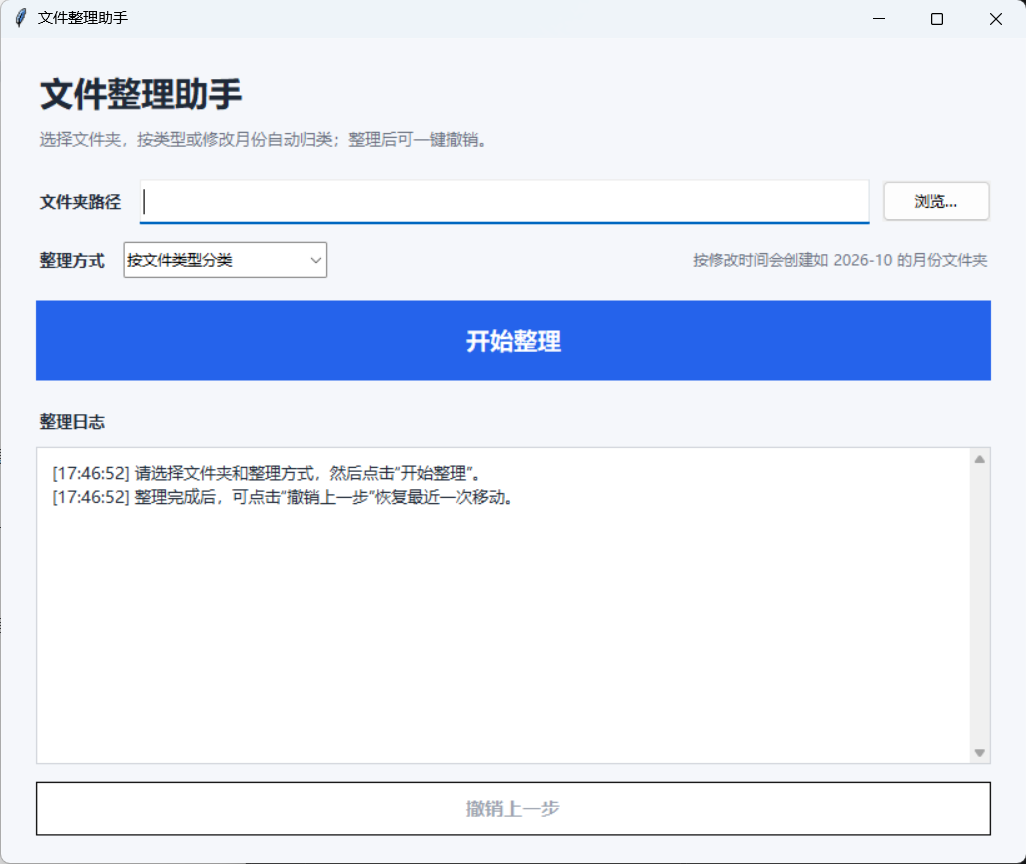
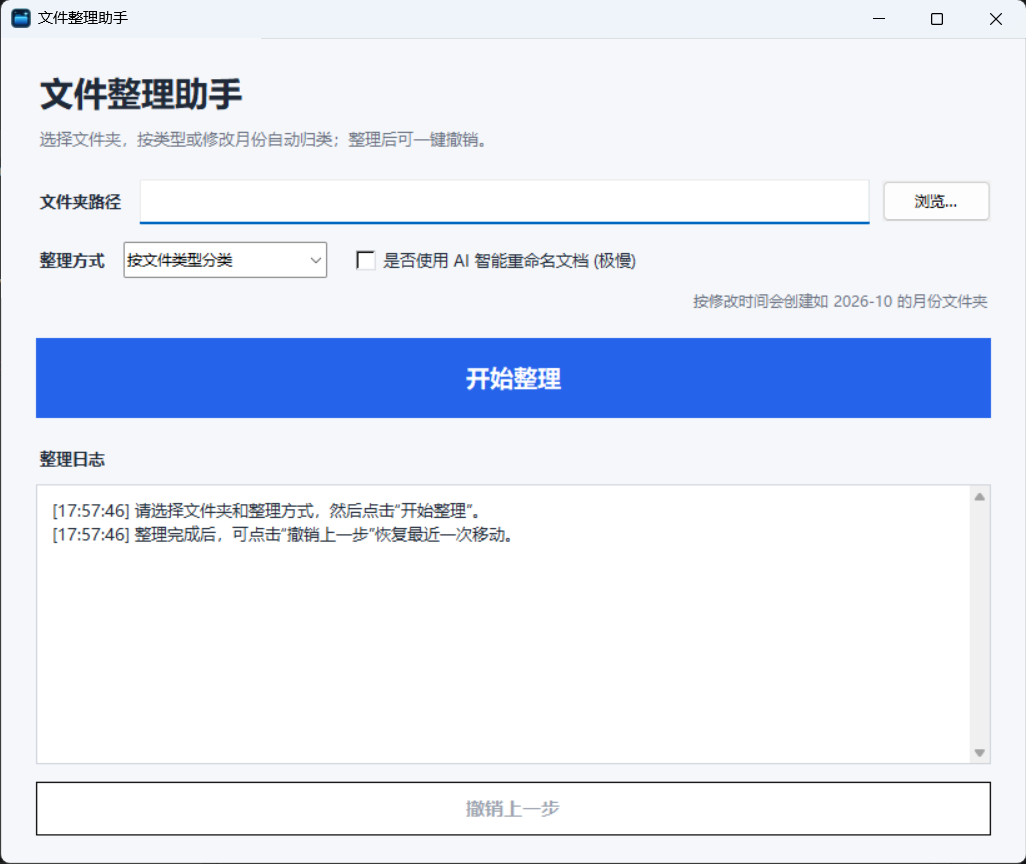
简介更新

diff --git a/README.md b/README.md
@@ -4,7 +4,9 @@
 
 **把混乱变成秩序，只需一次点击。**
 
-一款基于 Python + Tkinter 的本地文件整理工具：按类型归档、按修改月份归档，并为每一次整理保留一条安全的“后悔路”。
+一款基于 Python + Tkinter 的本地文件整理工具：支持 AI 智能重命名、按类型归档、按修改月份归档，并为每一次整理保留一条安全的“后悔路”。
+
+启用 AI 智能重命名后，程序会调用 DeepSeek 为 `.txt` 和 `.md` 文档生成简短摘要，并将摘要加入文件名；如果 AI 请求失败，会明确记录原因并自动回退到普通整理流程。
 
 ![Python](https://img.shields.io/badge/Python-3.10%2B-3776AB?logo=python&logoColor=white)
 ![Tkinter](https://img.shields.io/badge/GUI-Tkinter-3776AB?logo=python&logoColor=white)
@@ -21,11 +23,8 @@
 
 ## 界面预览
 
->
->
->![软件截图](screenshot.png)
->
-> 
+![软件截图](screenshot.png)
+
 ---
 
 ## 目录
